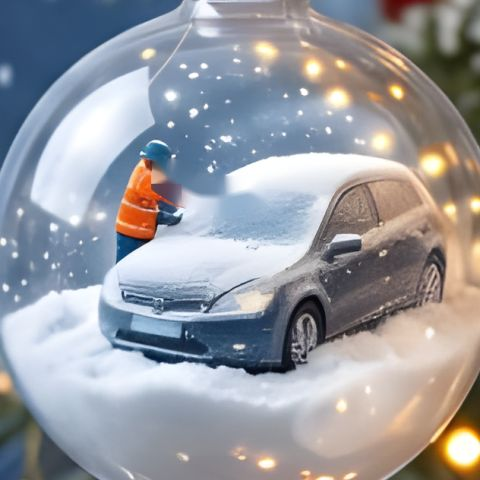
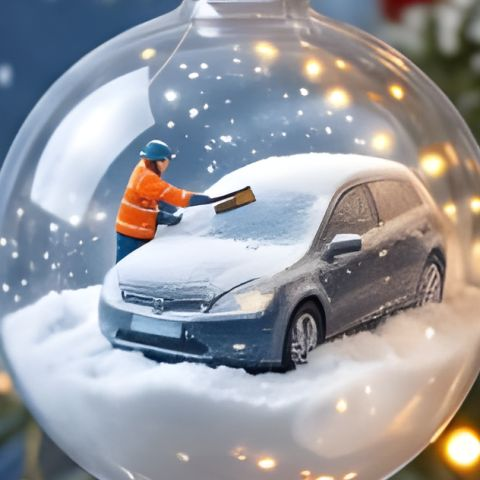
Remove the crew animation, keep the sharpened artwork
Hero and ornament images now come straight from the 4x upscale with
the workers in place; sprites, figure data and keyframes are gone.

Claude-Session: https://claude.ai/code/session_018Zsrom2XsZvTB2oCBpd4Er

Changed region(s): [[0.3125, 0.3125, 0.5312, 0.4688]]

diff --git a/public/assets/css/main.css b/public/assets/css/main.css
@@ -143,7 +143,7 @@ body.menu-open { overflow: hidden; }
 /* Hero: the ornaments photo on the right, text on the night sky on the left */
 .hero { position: relative; color: #fff; overflow: hidden; background: var(--sky); padding: min(86vw, 440px) 0 150px; isolation: isolate; }
 .hero-bg { position: absolute; left: 0; right: 0; top: 0; height: min(100vw, 520px); z-index: -2; overflow: hidden; container-type: size; -webkit-mask-image: linear-gradient(180deg, #000 55%, transparent 100%); mask-image: linear-gradient(180deg, #000 55%, transparent 100%); }
-/* The artwork keeps its own aspect ratio (like object-fit: cover) so the animated crew stays on its spots */
+/* The artwork keeps its own aspect ratio, like object-fit: cover */
 .hero-art { position: absolute; left: 40%; top: 50%; width: 100%; width: max(100cqw, 100cqh * 740 / 714); aspect-ratio: 740 / 714; transform: translate(-40%, -50%); }
 .hero-art picture, .hero-art picture img { display: block; width: 100%; height: 100%; }
 .hero .bokeh { z-index: -1; }
@@ -505,42 +505,3 @@ body.menu-open { overflow: hidden; }
 .mini-ornament:nth-child(even) .bauble { --len: 56px; }
 @media (min-width: 760px) { .mini-ornaments { grid-template-columns: repeat(3, 1fr); } }
 @media (min-width: 1060px) { .mini-ornaments { grid-template-columns: repeat(6, 1fr); } }
-
-/* The tiny crews inside the artwork: sprites cut from the picture, rocked around their feet or
-   shoulders, plus snow chunks thrown at the moment of each toss (positions come from src/figures.mjs). */
-.crew { position: absolute; inset: 0; pointer-events: none; }
-.fig { position: absolute; max-width: none; height: auto; will-change: transform; animation: 2.4s ease-in-out infinite both; }
-.a-dig { animation-name: crew-dig; animation-duration: 2.6s; }
-.a-throw { animation-name: crew-throw; animation-duration: 2.4s; }
-.a-scoop { animation-name: crew-scoop; animation-duration: 2.8s; }
-.a-rake { animation-name: crew-rake; animation-duration: 3.2s; }
-.a-wave-r { animation-name: crew-wave-r; animation-duration: 6s; }
-.a-wave-l { animation-name: crew-wave-l; animation-duration: 7s; }
-.a-stream { animation-name: crew-stream; animation-duration: 7s; transform-origin: 50% 100%; }
-@keyframes crew-dig { 0%, 80%, 100% { transform: rotate(0); } 25% { transform: rotate(-4deg); } 40% { transform: rotate(-3deg); } 50%, 60% { transform: rotate(6deg); } }
-@keyframes crew-throw { 0%, 80%, 100% { transform: rotate(0); } 25% { transform: rotate(6deg); } 42% { transform: rotate(3deg); } 50%, 60% { transform: rotate(-10deg); } }
-@keyframes crew-scoop { 0%, 80%, 100% { transform: rotate(0); } 25% { transform: rotate(-4deg); } 42% { transform: rotate(-2deg); } 50%, 60% { transform: rotate(7deg); } }
-@keyframes crew-rake { 0%, 85%, 100% { transform: rotate(0); } 30% { transform: rotate(-3deg); } 50%, 58% { transform: rotate(3deg); } }
-@keyframes crew-wave-r { 0%, 40%, 90%, 100% { transform: rotate(0); } 8%, 24% { transform: rotate(-8deg); } 16%, 32% { transform: rotate(3deg); } 48% { transform: rotate(-45deg); } 56%, 72% { transform: rotate(-32deg); } 64% { transform: rotate(-55deg); } 80% { transform: rotate(-50deg); } }
-@keyframes crew-wave-l { 0%, 44%, 93%, 100% { transform: rotate(0); } 9%, 27% { transform: rotate(7deg); } 18%, 36% { transform: rotate(-3deg); } 52% { transform: rotate(70deg); } 60%, 76% { transform: rotate(55deg); } 68% { transform: rotate(85deg); } 84% { transform: rotate(80deg); } }
-@keyframes crew-stream { 0%, 44%, 96%, 100% { opacity: 1; transform: skewX(0); } 9%, 27% { transform: skewX(8deg); } 18%, 36% { transform: skewX(-3deg); } 48%, 91% { opacity: 0; } }
-.chunks { position: absolute; aspect-ratio: 1; transform: translate(-50%, -50%); }
-.chunks i { position: absolute; inset: 0; border-radius: 50%; background: radial-gradient(circle at 42% 38%, #fff 0 30%, #e6eef8 44%, rgba(120,142,176,.8) 60%, rgba(120,142,176,0) 74%); opacity: 0; animation: crew-chunk var(--d, 2.4s) linear infinite; animation-delay: calc(var(--dl, 0s) + var(--o, 0s)); }
-.c-dig { --d: 2.6s; } .c-throw { --d: 2.4s; } .c-scoop { --d: 2.8s; } .c-rake { --d: 3.2s; }
-.c-plume i { animation: crew-plume 1.12s linear infinite; animation-delay: var(--o, 0s); }
-@keyframes crew-chunk {
-  0%, 49% { opacity: 0; transform: translate(0, 0) scale(.5); }
-  52% { opacity: 1; }
-  64% { transform: translate(calc(var(--mx) * 100%), calc(var(--my) * 100%)) scale(1); }
-  80% { opacity: .85; transform: translate(calc(var(--x) * 100%), calc(var(--y) * 100%)) scale(.8); }
-  84%, 100% { opacity: 0; transform: translate(calc(var(--x) * 100%), calc(var(--y) * 100%)) scale(.8); }
-}
-@keyframes crew-plume {
-  0% { opacity: 0; transform: translate(0, 0) scale(.5); }
-  12% { opacity: 1; }
-  45% { transform: translate(calc(var(--mx) * 100%), calc(var(--my) * 100%)) scale(1); }
-  85% { opacity: .8; }
-  100% { opacity: 0; transform: translate(calc(var(--x) * 100%), calc(var(--y) * 100%)) scale(1.1); }
-}
-@media (prefers-reduced-motion: reduce) { .fig, .chunks i { animation: none !important; } }
-
